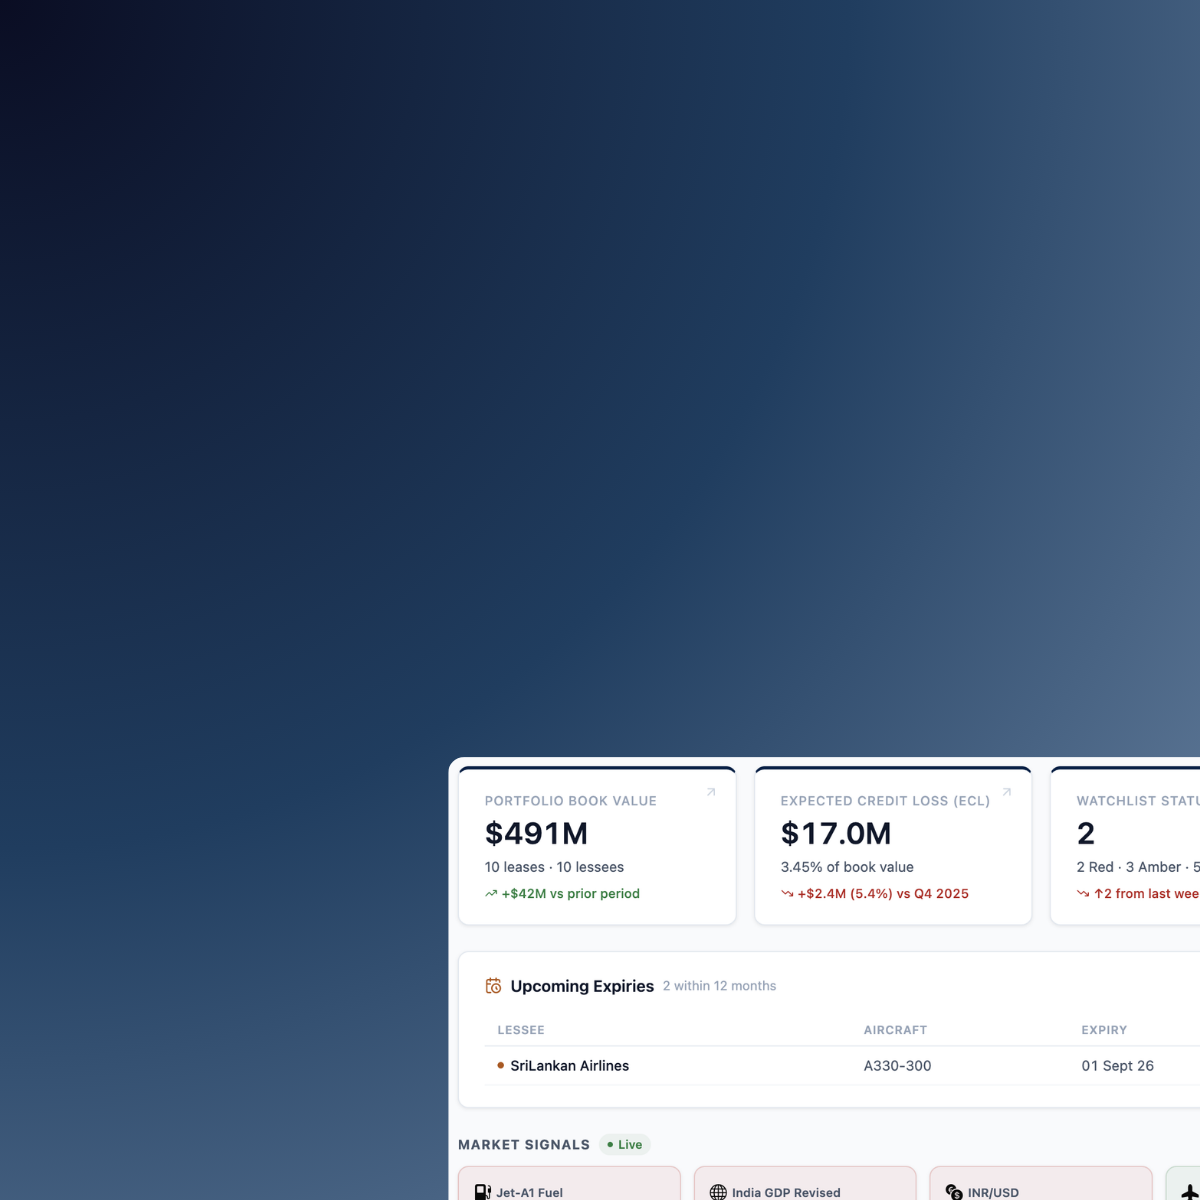
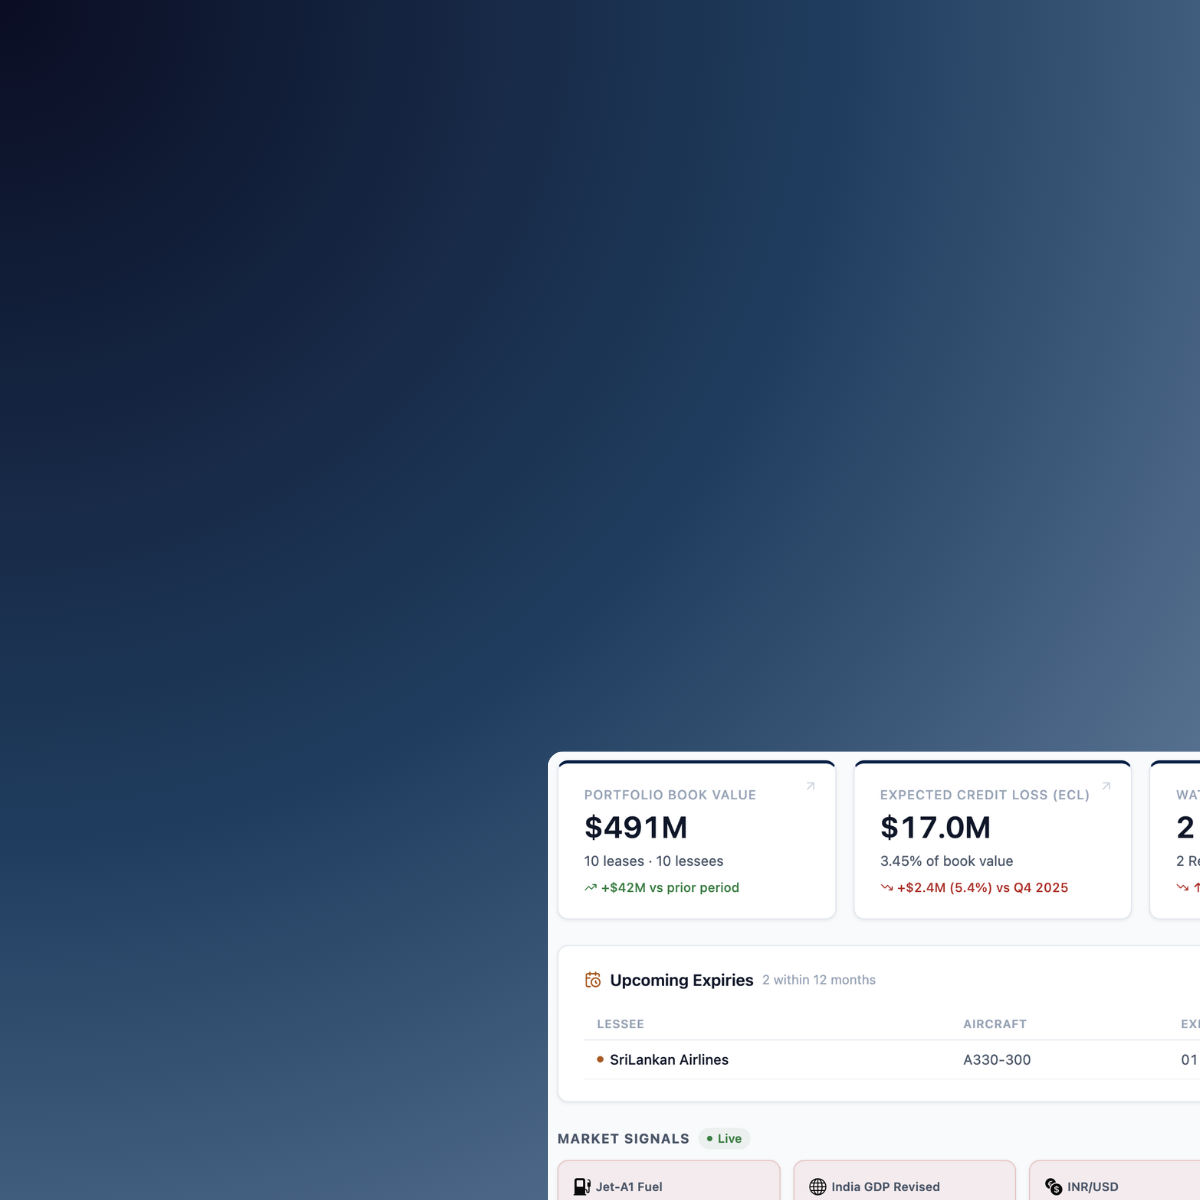
feat(portfolio-hub): replace sample portfolio card background image
Swaps in the new dashboard screenshot (KPI strip + market signals)
as the background for the Explore Sample Portfolio card. Also changes
backgroundPosition from "center top" to "bottom right" so the KPI
cards peek through the Oxford-blue overlay rather than showing the
plain dark-gradient top of the image.

diff --git a/src/app/pages/PortfolioHub.tsx b/src/app/pages/PortfolioHub.tsx
@@ -374,7 +374,7 @@ export default function PortfolioHub() {
                       inset: "-28px",
                       backgroundImage: "url('/sample-portfolio-bg.png')",
                       backgroundSize: "cover",
-                      backgroundPosition: "center top",
+                      backgroundPosition: "bottom right",
                       borderRadius: "1.5rem",
                       transform: "translateY(0) scale(1)",
                       transition: "transform 500ms cubic-bezier(0.23,1,0.32,1)",
